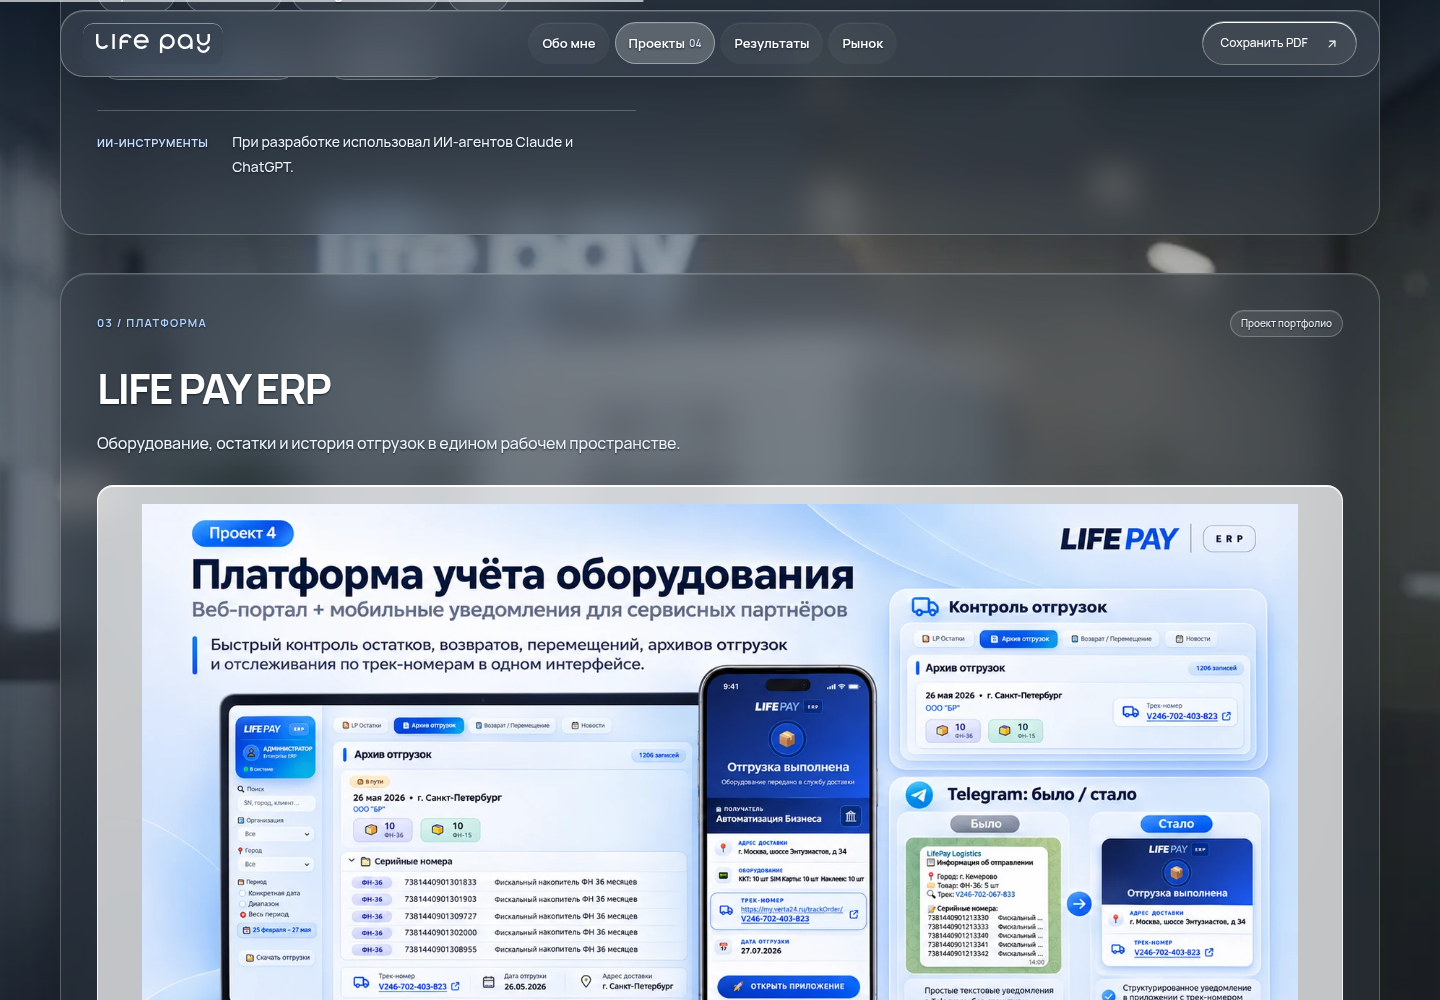
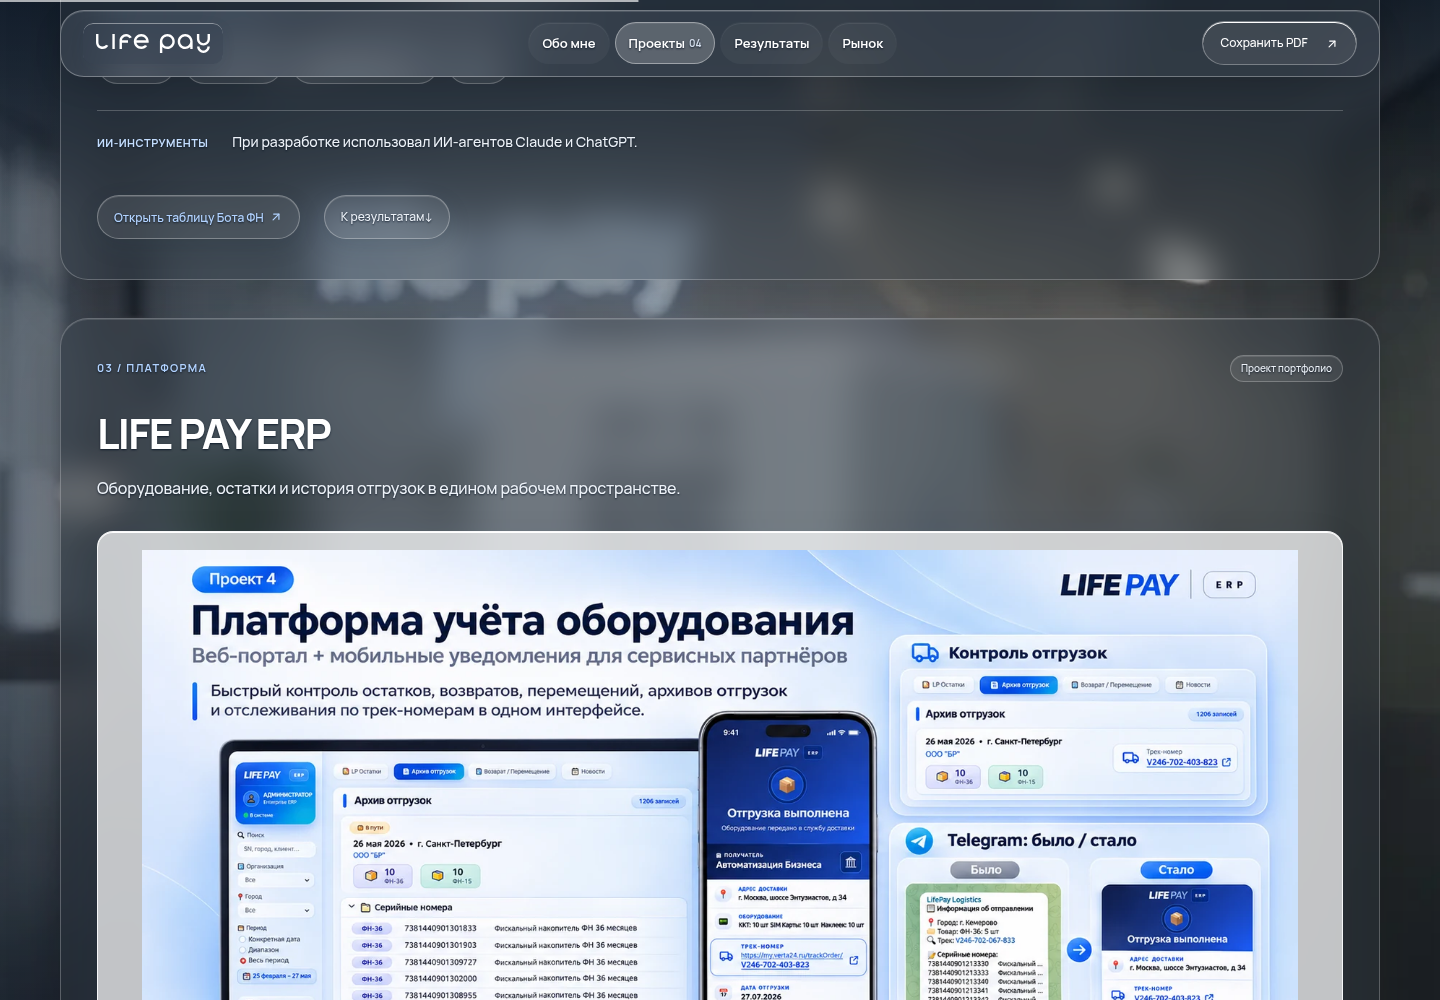
Keep project AI credits full width above project links

diff --git a/contribution.css b/contribution.css
@@ -69,7 +69,8 @@
 }
 
 /* The conclusion replaces the former salary preparation form. */
-.project-ai{display:flex;gap:12px 24px;align-items:baseline;margin-top:26px;padding:18px 0;border-top:1px solid #ffffff38;font-size:14px;line-height:1.8;color:#edf2f8;break-inside:avoid}
+.project-ai{grid-column:1/-1;grid-row:6;display:flex;gap:12px 24px;align-items:baseline;margin-top:26px;padding:18px 0;border-top:1px solid #ffffff38;font-size:14px;line-height:1.8;color:#edf2f8;break-inside:avoid}
+.project>.project-actions{grid-row:7}
 .project-ai strong{flex:none;color:#c4deff;font-size:11px;letter-spacing:.04em;text-transform:uppercase}
 .contribution-conclusion .conclusion-intro h2{max-width:25ch;font-size:clamp(30px,3.8vw,52px);line-height:1.15;overflow-wrap:anywhere}
 .contribution-conclusion .conclusion-intro>p,.contribution-conclusion .conclusion-approach p{max-width:90ch;font-size:16px;line-height:1.9;margin-top:22px;color:#edf2f8}
